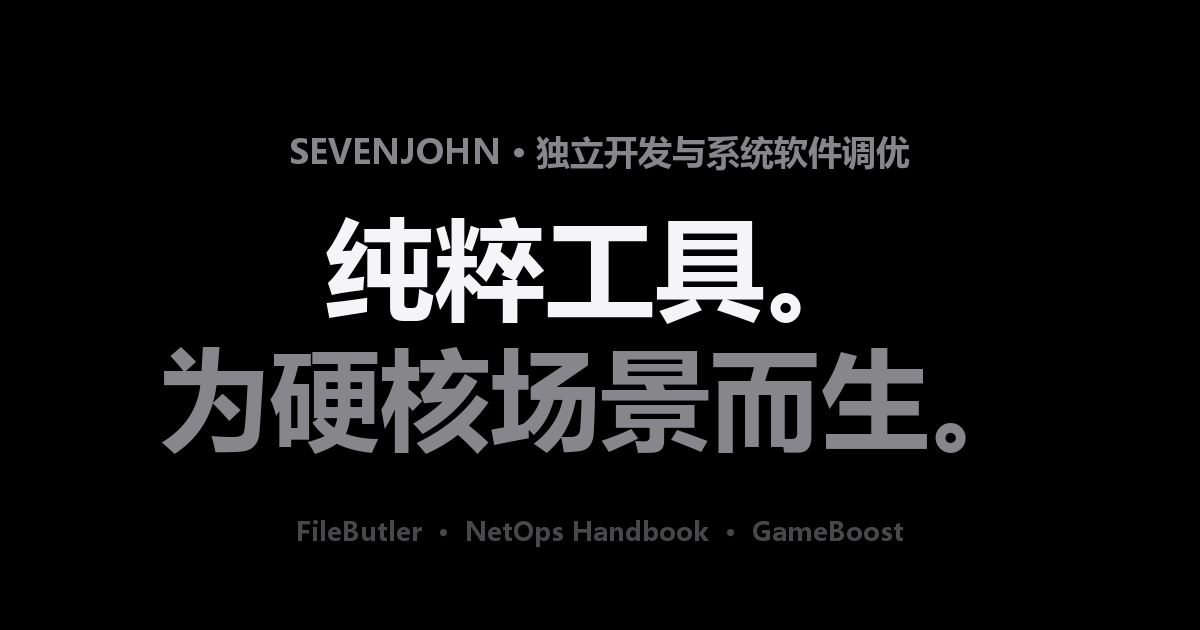
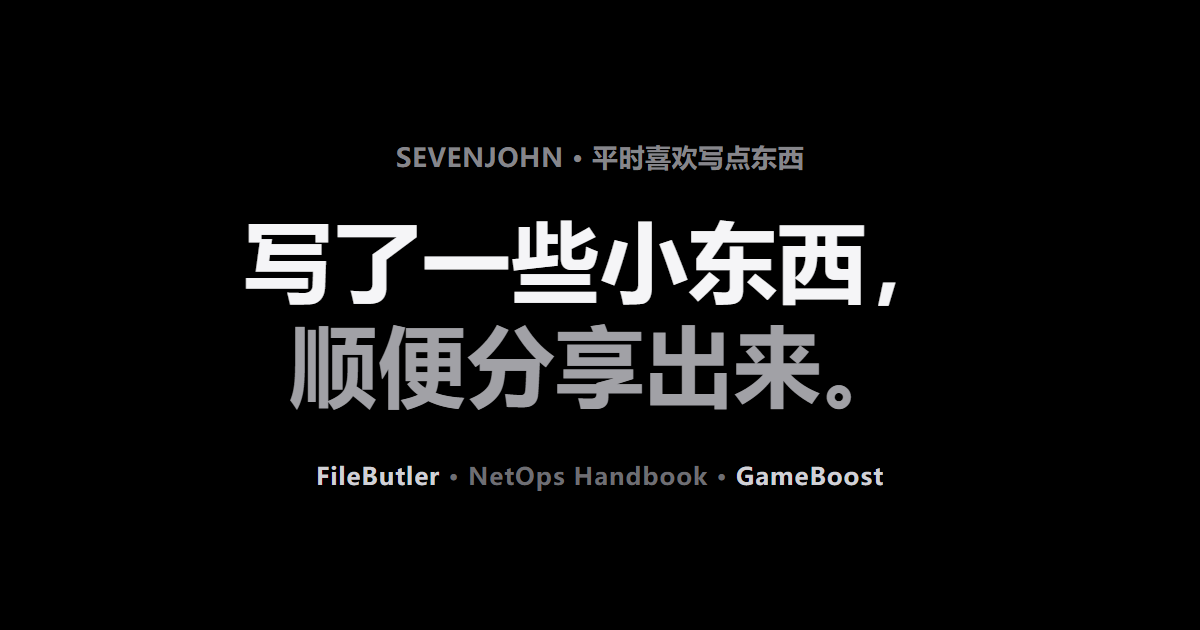
copy: 项目弹窗与 og-image 跟上站点新语气
- projects.js 三个产品详情重写：'### 项目介绍/核心功能/技术要点' → '这是什么/能干什么(里面有什么)/怎么做的'，保留全部数字与技术事实
- NetOps 定位纠正：'专为工程师打造' → '给想学网络的新手'，标题改'给小白的离线网络手册'，GameBoost 标题改'打游戏前点一下'
- og-image.png 重制：新文案'写了一些小东西，顺便分享出来'（1200×630 截图渲染，文字清晰可控）
- 弹窗 aria-label '技术规格详情' → '项目详情'
- busuanzi 复核：容器默认 display:none，外部服务失败自动隐藏，无需改动

验证：verify9 25/25、verify11 16/16、弹窗渲染截图核对、0 控制台错误

diff --git a/js/projects.js b/js/projects.js
@@ -23,10 +23,10 @@
 window.PROJECTS_DATA = [
   {
     id: "filebutler",
-    title: "FileButler · 本地智能文件管家",
+    title: "FileButler · 本地文件管家",
     category: "desktop",
     categoryName: "桌面应用",
-    description: "完全本地运行的文件整理 + 知识库问答桌面应用：AI 由 Ollama 免费模型驱动，无需 API Key。支持 Everything 式秒搜、文档自动向量化、图片语义搜索/OCR、重复文件安全清理，全程可撤销，数据不出本机。",
+    description: "文件乱成一团？这个帮你收拾。文件整理 + 直接问文件，都在你自己电脑上跑：AI 用本机 Ollama 免费模型，不用 API Key；秒搜、图片语义搜索、重复文件清理，每一步都能撤销，数据不出本机。",
     tags: ["Python", "Vue 3", "Ollama", "SQLite / FTS5", "RAG"],
     image: "assets/images/cover-filebutler.webp",
     demoUrl: "https://github.com/7SteveJohn/FileButler/releases",
@@ -35,29 +35,29 @@ window.PROJECTS_DATA = [
     downloadPwd: "95ak",
     featured: true,
     details: `
-### 💡 项目介绍
-FileButler 是一款**完全本地运行**的智能文件管家桌面应用（pywebview + Vue 3 单窗口内嵌），把文件整理与个人知识库问答合二为一。所有 AI 能力由本机 Ollama 免费开源模型提供，**不需要任何 API Key，数据不出本机**。
+### 💡 这是什么
+文件越堆越乱、想找的东西永远翻不出来——FileButler 就是为这个写的。它是一个**全在你自己电脑上跑**的文件管家 + 知识库问答：AI 用本机 Ollama 的免费模型，**不用申请任何 API Key，文件不会离开这台机器**。
 
-### ✨ 核心功能
-- **自动文件编目（Everything 式，只读）**：启动自动扫描用户目录，watchdog 后台实时监控，新文件几秒内可搜；支持 \`ext:pdf\`、\`size:>100mb\`、\`dm:本周\` 等搜索语法，长词走 FTS5 全文索引
-- **自动知识库问答（RAG）**：监控目录的新文档自动向量化入库（bge-m3），无需手动索引即可内容搜索与问答，对话历史可回看
-- **图片语义搜索 + OCR**：视觉模型生成描述并转录图中文字，搜「日落」找照片、搜发票号找截图
-- **智能文件整理**：规则 + 本地大模型批量分类 → 预览确认 → 执行移动 → 全程可撤销，**绝不会自动移动文件**；整理方案可存为模板
-- **重复文件安全清理**：三级哈希找重 → 按规则保留 → 移入「待清理」文件夹（不删除，可撤销）
-- **每周文件报告 / 数据库自动备份 / 开机自启 / 托盘常驻 / 深色模式**
+### ✨ 能干什么
+- **秒搜（只读，不动你的文件）**：启动自动扫描，后台盯着新文件，几秒内就能搜到；支持「ext:pdf」「size:>100mb」「dm:本周」这种语法，长词走全文索引
+- **直接问文件**：新文档自动转成向量入库（bge-m3），不用手动整理，问它就行，聊天记录能回看
+- **图片也能搜**：模型给图写描述、把图里的字抄出来，搜「日落」找照片、搜发票号找截图
+- **批量整理**：规则 + 本地模型先分类 → 给你预览 → 你勾选确认 → 才移动，**不会擅自挪动任何文件**，每一步都能撤销，方案还能存成模板
+- **找重复文件**：三级哈希查重 → 按规则保留 → 挪进「待清理」文件夹（只挪不删，随时撤销）
+- 另外还有：每周文件报告、数据库自动备份、开机自启、托盘常驻、深色模式
 
-### 🛠 技术要点
-- 后端：Python（SQLite 向量检索、watchdog 实时监控、仅 127.0.0.1 白名单校验的缩略图服务、RAG 管线）
-- 前端：Vue 3 + Naive UI，Vite 构建为单文件内嵌 pywebview
-- 安全设计：所有文件移动前必须「预览 → 勾选确认」，每步操作写日志、按批次一键撤销，Ollama 未就绪时自动降级为规则整理 + 关键词搜索
-    `
+### 🛠 怎么做的
+- 后端：Python（SQLite 向量检索、watchdog 实时监控、缩略图服务只认 127.0.0.1、RAG 管线）
+- 前端：Vue 3 + Naive UI，Vite 打成单文件塞进 pywebview
+- 保险设计：移动前必须「预览 → 勾选确认」，每步写日志、按批次撤销；Ollama 没开时自动退回规则整理 + 关键词搜索
+  `
   },
   {
     id: "netops-handbook",
-    title: "NetOps Handbook · 离线网络运维知识体系",
+    title: "NetOps Handbook · 给小白的离线网络手册",
     category: "android",
     categoryName: "Android 应用",
-    description: "100% 离线的 Android 应用：58 知识模块、25 排障案例、500+ 多厂商 CLI 命令、30 道面试真题。WebView 壳层 + 单文件 SPA 架构，零网络权限，数据与界面完全解耦。",
+    description: "一本装在手机里的离线网络手册：58 个知识模块、25 个排障案例、500+ 条命令速查、30 道面试真题。做给想学网络的新手看，零联网权限，没信号也能翻。",
     tags: ["Android", "WebView", "Gradle 8.9", "单页 SPA", "离线应用"],
     image: "assets/images/cover-netops.webp",
     demoUrl: "https://github.com/7SteveJohn/netops-handbook/releases",
@@ -66,27 +66,29 @@ FileButler 是一款**完全本地运行**的智能文件管家桌面应用（py
     downloadPwd: "9uma",
     featured: true,
     details: `
-### 💡 项目介绍
-NetOps 2.0 是一款**零网络权限、100% 离线**的 Android 网络运维知识应用，覆盖传统网络、云原生、故障排查与面试准备四大方向，专为工程师在无网环境下的速查与学习打造。
+### 💡 这是什么
+NetOps 是一本**能装进口袋的离线网络小册子**。断网、没信号、蹲在机房角落都翻得开——它压根不申请联网权限。
 
-### ✨ 核心数据
-- **58 个知识模块** / **25 个排障案例** / **500+ 条多厂商 CLI 命令**（含命令字典与模拟器） / **30 道面试真题**
-- 内置 CLI 模拟器：前缀联想、历史持久化、快速按钮分组
-- 学习进度 / 收藏支持 JSON 导出导入
-- 液态玻璃三模式主题（透明 / 毛玻璃 / 高斯），带 Android WebView 降级检测，低端机自动降级 backdrop-filter
+给想学网络但不知道从哪下手的人做的：不用先啃完一本教材，翻开就能查。
 
-### 🛠 技术架构
-- **Android 壳层**：edge-to-edge WebView + safe-area 注入 + @JavascriptInterface 回退栈桥接 + OnBackPressedCallback 手势返回，纯离线（不申请 INTERNET 权限），release 签名就绪
-- **Web 端**：单页 SPA，自研导航栈适配 file:// WebView；SVG/CSS 全部内联，零外部依赖
-- **构建链路**：gen-data.js → build.js → assets/index.html 单文件打包，附冒烟测试与 APK 校验脚本
-    `
+### ✨ 里面有什么
+- **58 个知识模块** / **25 个排障案例** / **500+ 条命令速查**（带字典和模拟器） / **30 道面试真题**
+- 命令看不懂？内置模拟器可以直接敲，有前缀联想和历史记录
+- 学习进度和收藏能导出成 JSON，换手机不丢
+- 三种毛玻璃主题（透明 / 毛玻璃 / 高斯），低端机会自动降级
+
+### 🛠 怎么做的
+- **Android 壳层**：WebView 全屏 + 安全区适配 + 返回手势桥接，纯离线（不申请 INTERNET 权限），release 签名已就绪
+- **内容端**：单文件网页，导航栈是自己写的（为了能用 file:// 直接打开），图形样式全部内联，零外部依赖
+- **打包**：gen-data.js → build.js → 一个 index.html 文件，附冒烟测试和 APK 校验脚本
+  `
   },
   {
     id: "gameboost",
-    title: "GameBoost · 竞技游戏一键优化工具",
+    title: "GameBoost · 打游戏前点一下",
     category: "desktop",
     categoryName: "桌面应用",
-    description: "Windows 竞技游戏一键优化：针对 CS2 / 瓦罗兰特 / 三角洲行动，自动调优电源、GPU、网络、CPU 调度与定时器分辨率，压低帧生成时间抖动。硬件自适应，全部可回滚。",
+    description: "打 CS2 / 瓦罗兰特 / 三角洲之前点一下，自动把电源、显卡、网络、CPU 调度和定时器分辨率调好，专治对枪那一瞬间的卡顿。按你机器配置来，全部能一键还原。",
     tags: ["C#", "PowerShell", "Windows", "游戏性能"],
     image: "assets/images/cover-gameboost.webp",
     demoUrl: "https://github.com/7SteveJohn/GameBoost/releases",
@@ -95,18 +97,18 @@ NetOps 2.0 是一款**零网络权限、100% 离线**的 Android 网络运维知
     downloadPwd: "5xqi",
     featured: false,
     details: `
-### 💡 项目介绍
-GameBoost 是一款 Windows 竞技游戏一键自动优化工具，面向 CS2 / Valorant / 三角洲行动等竞技 FPS 场景，核心目标是**压低帧生成时间的抖动**，而不是跑分。
+### 💡 这是什么
+打 CS2、瓦罗兰特、三角洲这类游戏，最烦的不是平均帧数低，是**对枪那一下突然卡一下**。GameBoost 就是冲着这个做的——开打前点一下，把该调的都调好。跑分多少不重要。
 
-### ✨ 功能特性
-- 自动调优电源计划、GPU、网络参数、CPU 调度与定时器分辨率
-- 硬件自适应：根据本机配置选择优化项，全部可一键回滚
-- 优化前自动备份至 backup/ 目录，运行日志落盘 logs/
-- 原生 exe 双击即用（自包含，内嵌自定义图标），config.json 可编辑优化项开关与游戏联动
-- 附带 PowerShell 引擎模块与重编译脚本（csc 编译 + 嵌图标）
+### ✨ 能干什么
+- 自动调电源计划、显卡、网络、CPU 调度和定时器分辨率
+- 按你机器的配置挑优化项，不喜欢就一键还原
+- 优化前自动备份到 backup/，日志写到 logs/
+- 一个 exe 双击就跑，config.json 里能开关每一项，也能跟游戏联动
+- 附带 PowerShell 引擎模块和重新编译的脚本
 
-### 🛠 技术细节
-C# 源码（GameBoost.cs）+ compile.ps1 自动编译打包；曾修复单实例锁被 .NET GC 回收导致失效的经典坑（局部 Mutex）。
-    `
+### 🛠 怎么做的
+C# 写的（GameBoost.cs），compile.ps1 一键编译打包。踩过一个坑：单实例锁被 .NET 回收掉，导致能开好几个（局部 Mutex 的经典问题）。
+  `
   }
 ];

diff --git a/index.html b/index.html
@@ -721,7 +721,7 @@
   </div>
 
   <!-- 项目技术规格详情弹窗 -->
-  <div id="project-modal" role="dialog" aria-modal="true" aria-label="技术规格详情" class="modal-overlay hidden fixed inset-0 z-50 flex justify-center p-4 sm:p-6 bg-black/80 backdrop-blur-md overflow-y-auto" data-page-node-id="J7jlKWBIO4EBMtrDznKCbZ">
+  <div id="project-modal" role="dialog" aria-modal="true" aria-label="项目详情" class="modal-overlay hidden fixed inset-0 z-50 flex justify-center p-4 sm:p-6 bg-black/80 backdrop-blur-md overflow-y-auto" data-page-node-id="J7jlKWBIO4EBMtrDznKCbZ">
     <div class="modal-panel relative m-auto w-full max-w-2xl bg-white dark:bg-[#161617] rounded-3xl shadow-2xl overflow-hidden border border-black/10 dark:border-white/10 my-8" data-page-node-id="WpQ2MFpp0ADpuMivaJXoYV">
       <button 
         onclick="closeProjectModal()" 
